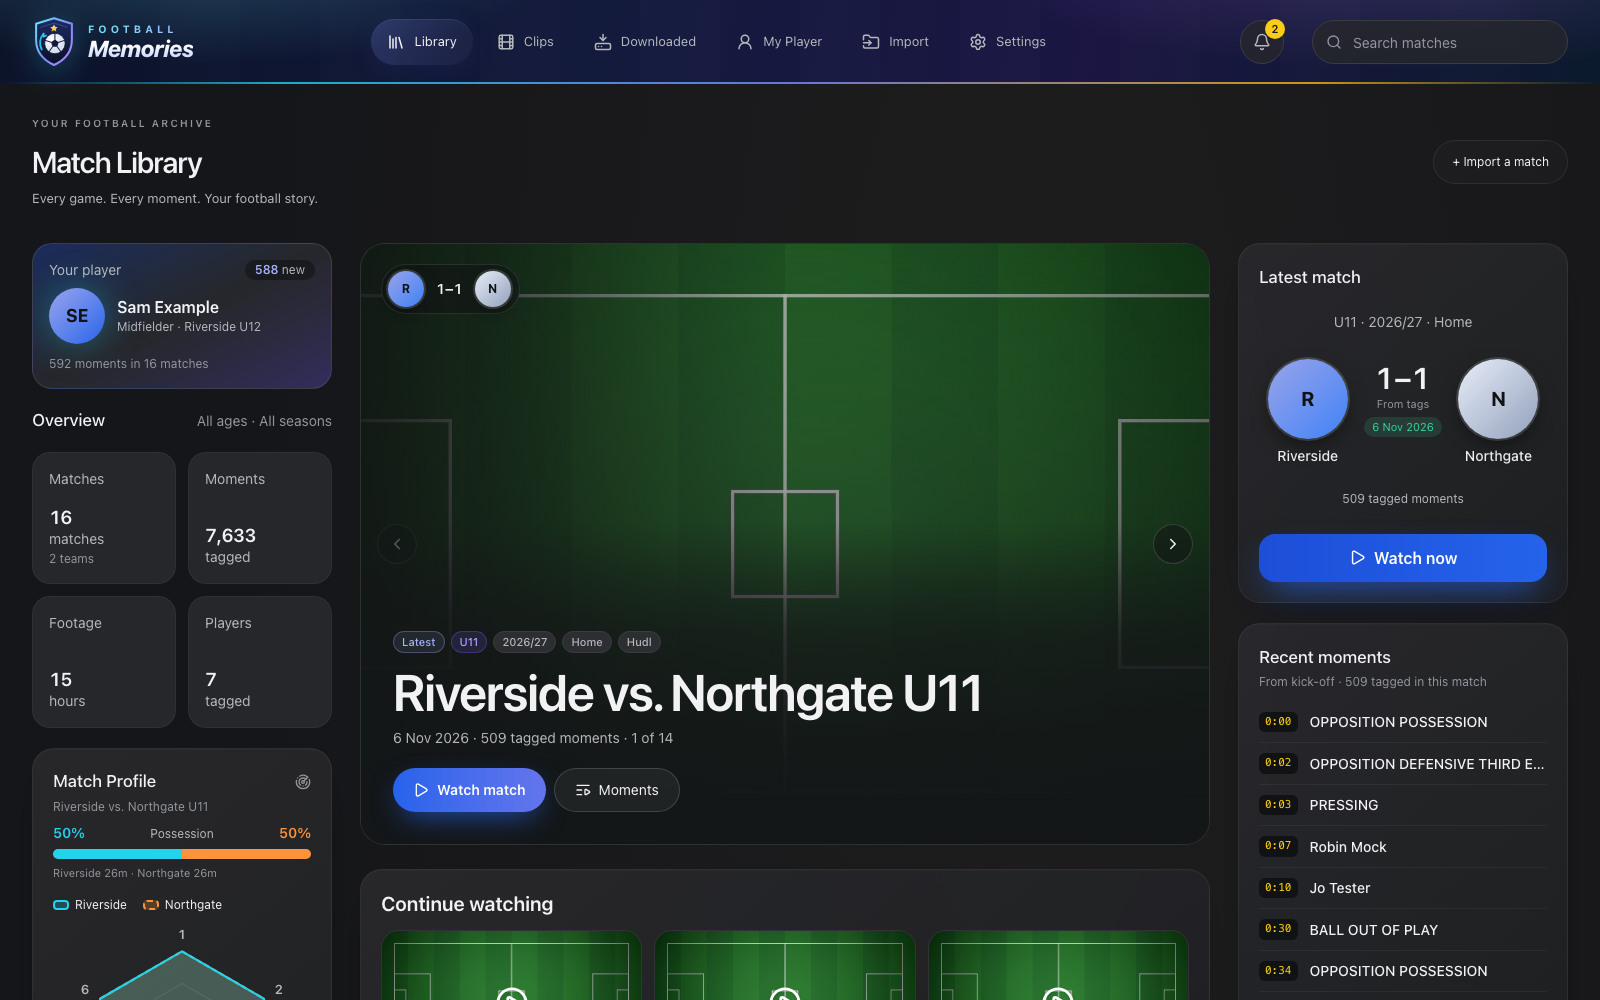
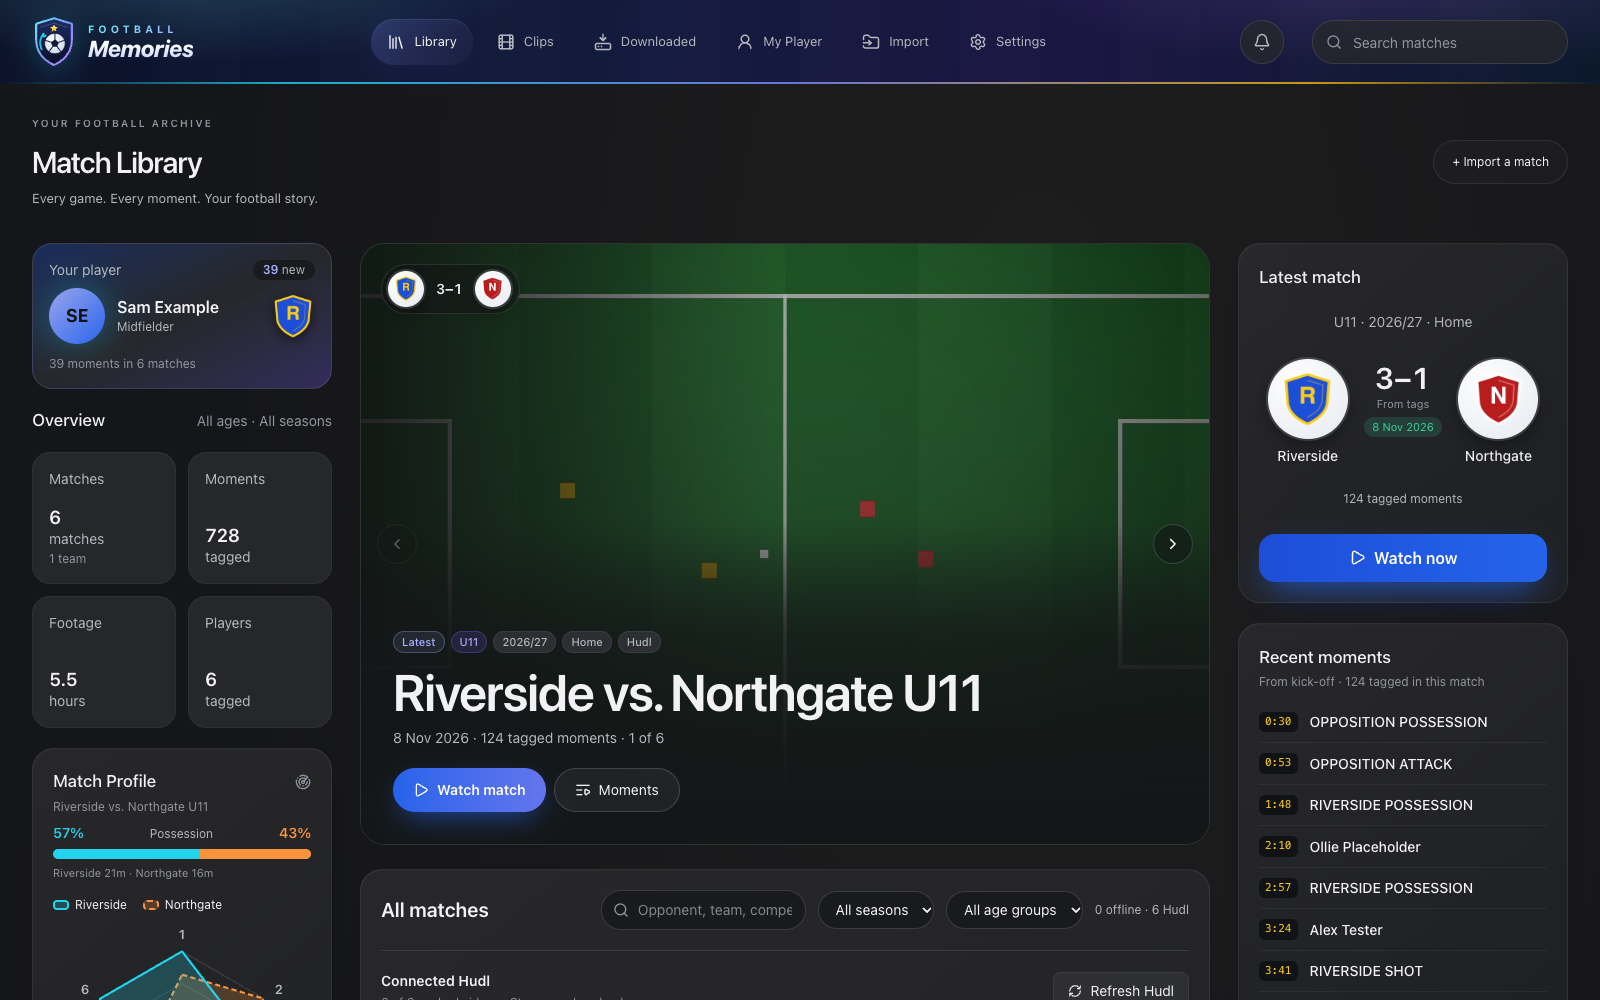
Release 0.4: Veo Disconnect, home-network address, crest on Your player
- Version 0.4.0 (backend, frontend and lock files); CHANGELOG 0.4 summarises
  everything since 0.3; README covers Veo, the drawing board, My Player and
  import, with new screenshots (highlight reel studio, Veo match and team stats,
  Connections, Import) and refreshed Library and Player hub shots. All taken
  from made-up data served by a throwaway stand-in helper and database.
- Veo shows Disconnect whenever an account is saved, not only after Connect.
- Settings > Connections shows the address phones and tablets use on the home
  network: the helper reads this computer's Bonjour name and private IPv4
  locally (GET /network); nothing is sent anywhere.
- The Your player card shows the club crest to the right of the name.
- My Player's four totals show centred, larger numbers.

diff --git a/frontend/src/components/settings/LanAddress.tsx b/frontend/src/components/settings/LanAddress.tsx
@@ -1,0 +1,24 @@
+import { useQuery } from "@tanstack/react-query";
+import { Wifi } from "lucide-react";
+import { hudlRequest } from "../../api/hudl";
+
+type Network = { host: string | null; ip: string | null };
+
+/** Owner request 2026-11-14: the address phones and tablets on the same home network
+ *  use, read by the desktop helper on this computer. */
+export function LanAddress({ port = window.location.port || "8765" }: { port?: string }) {
+  const q = useQuery<Network>({ queryKey: ["lan-address"], queryFn: () => hudlRequest("/network"), retry: false, staleTime: 60_000 });
+  const urls = [q.data?.host, q.data?.ip].filter((x): x is string => Boolean(x)).map((h) => `http://${h}:${port}`);
+  return (
+    <section aria-label="On your home network" className="panel flex flex-wrap items-center gap-x-4 gap-y-2 p-4">
+      <Wifi size={18} className="text-accent" aria-hidden />
+      <h2 className="text-sm font-semibold">On your home network</h2>
+      {q.isPending ? <span className="text-sm text-fg-muted">Finding this computer's address…</span>
+        : urls.length ? <>
+          {urls.map((u) => <code key={u} className="select-all rounded-md bg-ink-900 px-2 py-1 text-sm text-fg">{u}</code>)}
+          <p className="basis-full text-xs text-fg-subtle">Open {urls.length > 1 ? "either address" : "this address"} on a phone, tablet or another computer on the same Wi-Fi. The app has no password on your network.</p>
+        </>
+        : <span className="text-sm text-fg-muted">Start the desktop helper to see this computer's network address.</span>}
+    </section>
+  );
+}

diff --git a/frontend/src/components/settings/LanAddress.test.tsx b/frontend/src/components/settings/LanAddress.test.tsx
@@ -1,0 +1,30 @@
+import { screen, within } from "@testing-library/react";
+import { afterEach, expect, it, vi } from "vitest";
+import { renderWithProviders, stubFetch } from "../../test/render";
+import { LanAddress } from "./LanAddress";
+
+// Owner request 2026-11-14: Connections shows the address to open on a phone or
+// tablet on the same home network, read by the helper on this computer.
+const H = "http://127.0.0.1:8766";
+afterEach(() => vi.unstubAllGlobals());
+
+it("shows the computer's network name and address with the app's port", async () => {
+  stubFetch({ [`${H}/network`]: { host: "MacMini.local", ip: "192.168.0.53" } });
+  renderWithProviders(<LanAddress port="8765" />);
+  const box = await screen.findByRole("region", { name: "On your home network" });
+  expect(await within(box).findByText("http://MacMini.local:8765")).toBeInTheDocument();
+  expect(within(box).getByText("http://192.168.0.53:8765")).toBeInTheDocument();
+});
+
+it("shows only the address when the computer has no network name", async () => {
+  stubFetch({ [`${H}/network`]: { host: null, ip: "10.0.0.7" } });
+  renderWithProviders(<LanAddress port="8765" />);
+  expect(await screen.findByText("http://10.0.0.7:8765")).toBeInTheDocument();
+  expect(screen.queryByText(/\.local/)).toBeNull();
+});
+
+it("says how to find it when the helper cannot tell", async () => {
+  stubFetch({});
+  renderWithProviders(<LanAddress port="8765" />);
+  expect(await screen.findByText(/Start the desktop helper/)).toBeInTheDocument();
+});

diff --git a/frontend/src/components/library/YourPlayerCard.test.tsx b/frontend/src/components/library/YourPlayerCard.test.tsx
@@ -14,3 +14,20 @@ it('shows the whole player name, wrapping onto a second line instead of cutting 
   expect(name.className).not.toContain('truncate');
   expect(name.className).toContain('break-words');
 });
+
+// Owner request 2026-11-14: the club crest sits to the right of the player's name.
+it('shows the club crest to the right of the name', async () => {
+  stubFetch({ '/api/preferences': { primary_player_id: 9 }, '/api/players/9': { ...profile, club_name: 'Riverside FC' }, 'http://127.0.0.1:8766/library': [] });
+  renderWithProviders(<YourPlayerCard />);
+  const crest = await screen.findByRole('img', { name: 'Riverside FC crest' });
+  expect(crest).toHaveAttribute('src', '/api/team-logo?name=Riverside%20FC');
+  const name = screen.getByText('SAMANTHA EXAMPLESON');
+  expect(name.compareDocumentPosition(crest) & Node.DOCUMENT_POSITION_FOLLOWING).toBeTruthy();
+});
+
+it('shows no crest when no club is set', async () => {
+  stubFetch({ '/api/preferences': { primary_player_id: 9 }, '/api/players/9': { ...profile, club_name: null }, 'http://127.0.0.1:8766/library': [] });
+  renderWithProviders(<YourPlayerCard />);
+  await screen.findByText('SAMANTHA EXAMPLESON');
+  expect(screen.queryByRole('img', { name: /crest/ })).toBeNull();
+});

diff --git a/frontend/src/components/settings/VeoAccount.test.tsx b/frontend/src/components/settings/VeoAccount.test.tsx
@@ -58,8 +58,17 @@ it("disconnects a connected account without forgetting it", async () => {
   expect(body("/veo/action")).toEqual({ action: "disconnect" });
 });
 
-it("offers no Disconnect before it is connected", async () => {
-  stubFetch({ [`${BASE}/veo/account`]: { ...idle, configured: true } });
+// Owner request 2026-11-14 (replaces "no Disconnect before it is connected"): the Veo
+// box always has Disconnect once an account is saved, even after the helper restarts.
+it("offers Disconnect whenever a Veo account is saved", async () => {
+  stubFetch({ [`${BASE}/veo/account`]: { ...idle, configured: true }, [`${BASE}/veo/action`]: { accepted: true } });
+  renderWithProviders(<VeoAccount />);
+  await userEvent.setup().click(await screen.findByRole("button", { name: "Disconnect" }));
+  expect(body("/veo/action")).toEqual({ action: "disconnect" });
+});
+
+it("offers no Disconnect with no Veo account saved", async () => {
+  stubFetch({ [`${BASE}/veo/account`]: { ...idle, configured: false } });
   renderWithProviders(<VeoAccount />);
   await screen.findByRole("button", { name: "Connect" });
   expect(screen.queryByRole("button", { name: "Disconnect" })).toBeNull();

diff --git a/frontend/src/components/settings/VeoAccount.tsx b/frontend/src/components/settings/VeoAccount.tsx
@@ -46,7 +46,7 @@ export function VeoAccount({ onConnectionChange }: { onConnectionChange?: (state
         <Button type="submit" variant="primary" disabled={busy}>{save.isPending ? "Saving…" : "Save"}</Button>
         <Button type="button" disabled={busy || !q.data.configured} onClick={() => action.mutate("test")}>Connect</Button>
         <Button type="button" disabled={busy || !q.data.configured} onClick={() => action.mutate("refresh")}><RefreshCw size={14} /> Refresh matches</Button>
-        {["ready", "done"].includes(q.data.state) && <Button type="button" disabled={busy} onClick={() => action.mutate("disconnect")}>Disconnect</Button>}
+        {q.data.configured && <Button type="button" disabled={busy} onClick={() => action.mutate("disconnect")}>Disconnect</Button>}
       </div>
     </form>
     {saved && <p className="text-xs text-ok" role="status">Saved in {where}. Select Connect to sign in.</p>}

diff --git a/frontend/src/pages/ConnectionsPage.tsx b/frontend/src/pages/ConnectionsPage.tsx
@@ -12,6 +12,7 @@ import { Spinner } from "../components/ui/Spinner";
 import { HIDDEN_KEY, readHidden } from "../lib/connections";
 import { HomeTeamField } from "../components/settings/HomeTeamField";
 import { ClubCrestUpload } from "../components/settings/ClubCrestUpload";
+import { LanAddress } from "../components/settings/LanAddress";
 
 const LABELS: Record<string, string> = {
   list_teams: "List teams",
@@ -53,6 +54,7 @@ export function ConnectionsPage({ embedded = false }: { embedded?: boolean }) {
         </EmptyState>
       ) : (
         <div className="space-y-4">
+        <LanAddress />
         <div className="flex flex-wrap gap-2" aria-label="Connections shown">
           <Toggle label="Show Hudl matches" on={shown("hudl")} onChange={(on) => show("hudl", on)} />
           <Toggle label="Show Veo matches" on={shown("veo")} onChange={(on) => show("veo", on)} />

diff --git a/frontend/src/components/library/YourPlayerCard.tsx b/frontend/src/components/library/YourPlayerCard.tsx
@@ -50,6 +50,9 @@ export function YourPlayerCard() {
           <p className="text-base leading-tight font-semibold break-words">{p.display_name}</p>
           <p className="mt-0.5 text-xs text-fg-muted">{[p.position, p.teams[0]?.team_name].filter(Boolean).join(" · ") || "Player hub"}</p>
         </div>
+        {/* Owner request 2026-11-14: the club crest to the right of the name. */}
+        {p.club_name && <img src={`/api/team-logo?name=${encodeURIComponent(p.club_name)}`} alt={`${p.club_name} crest`}
+          className="size-11 shrink-0 object-contain drop-shadow-[0_3px_6px_#0008]" onError={(e) => { e.currentTarget.style.display = "none"; }} />}
       </div>
       <p className="mt-3 text-xs text-fg-subtle">{p.totals.moments + hudlMoments} moments in {p.totals.matches + hudl.length} matches</p>
     </Link>

diff --git a/frontend/src/screens.css b/frontend/src/screens.css
@@ -123,6 +123,9 @@
 .profile-top > .profile-editing { grid-column: 2 / -1; }
 .profile-top:has(> .profile-editing) .profile-stats { grid-column: 1 / -1; grid-template-columns: repeat(4, minmax(0, 1fr)); grid-template-rows: none; }
 .profile-stats .tile { background: #292a2ed9; border-color: #ffffff0b; }
+/* The wider 2 x 2 totals read as headline numbers rather than small text in big boxes. */
+.profile-stats [data-stat-value] { font-size: clamp(28px, 14cqi, 64px); line-height: 1; }
+.profile-stats .tile > div:last-child { margin-block: auto; text-align: center; }
 .profile-details svg polygon[fill="none"] { stroke: #ffffff20; }
 .profile-details svg polygon:not([fill="none"]) { fill: #8998f548; stroke: #a6b1ff; }
 [data-screen="profile"] :focus-visible { outline-color: var(--color-accent); }

diff --git a/backend/tests/connectors/test_lan_address.py b/backend/tests/connectors/test_lan_address.py
@@ -1,0 +1,71 @@
+"""Owner request 2026-11-14: Connections shows the address phones and tablets on the
+home network use. The helper runs on the computer itself, so it can see it."""
+
+import subprocess
+from pathlib import Path
+
+from fastapi.testclient import TestClient
+
+from app.connectors.hudl_companion import create_companion
+from app.connectors.lan_address import lan_address
+
+APP = {"Origin": "http://127.0.0.1:8765"}
+
+
+def fake_run(answers: dict[str, str]):  # noqa: ANN201
+    def run(args: list[str], **_: object) -> subprocess.CompletedProcess[str]:
+        out = answers.get(" ".join(args))
+        return subprocess.CompletedProcess(args, 0 if out else 1, out or "", "")
+
+    return run
+
+
+def test_a_mac_gives_its_bonjour_name_and_wifi_address() -> None:
+    run = fake_run(
+        {"scutil --get LocalHostName": "MacMini\n", "ipconfig getifaddr en0": "192.168.0.53\n"}
+    )
+    assert lan_address("darwin", run=run, probe=lambda: None) == {
+        "host": "MacMini.local",
+        "ip": "192.168.0.53",
+    }
+
+
+def test_a_mac_on_a_cable_uses_the_second_interface() -> None:
+    run = fake_run({"ipconfig getifaddr en1": "10.0.0.7\n"})
+    assert lan_address("darwin", run=run, probe=lambda: None) == {"host": None, "ip": "10.0.0.7"}
+
+
+def test_other_computers_use_the_routing_probe_and_only_private_addresses() -> None:
+    assert lan_address("win32", run=fake_run({}), probe=lambda: "192.168.1.20") == {
+        "host": None,
+        "ip": "192.168.1.20",
+    }
+    assert lan_address("win32", run=fake_run({}), probe=lambda: "8.8.8.8")["ip"] is None
+    assert lan_address("win32", run=fake_run({}), probe=lambda: "127.0.0.1")["ip"] is None
+    assert (
+        lan_address(
+            "darwin", run=fake_run({"ipconfig getifaddr en0": "not an ip"}), probe=lambda: None
+        )["ip"]
+        is None
+    )
+
+
+def test_a_failing_lookup_is_simply_unknown() -> None:
+    def broken(*_: object, **__: object) -> None:
+        raise OSError("no scutil")
+
+    def probe() -> str:
+        raise OSError("no network")
+
+    assert lan_address("darwin", run=broken, probe=probe) == {"host": None, "ip": None}
+
+
+def test_the_helper_answers_the_app_with_the_address(tmp_path: Path) -> None:
+    app = create_companion(tmp_path)
+    app.state.lan_address = lambda: {"host": "MacMini.local", "ip": "192.168.0.53"}
+    with TestClient(app, base_url="http://127.0.0.1:8766") as client:
+        assert client.get("/network", headers=APP).json() == {
+            "host": "MacMini.local",
+            "ip": "192.168.0.53",
+        }
+        assert client.get("/network", headers={"Origin": "https://evil.test"}).status_code == 403

diff --git a/backend/app/connectors/lan_address.py b/backend/app/connectors/lan_address.py
@@ -1,0 +1,66 @@
+"""Owner request 2026-11-14: the address phones and tablets on the home network use
+to open the app. Read on this computer only (the helper is not in Docker); nothing is
+sent anywhere. The routing probe opens a UDP socket without sending a packet."""
+
+from __future__ import annotations
+
+import ipaddress
+import socket
+import subprocess
+import sys
+from collections.abc import Callable
+from typing import Any
+
+Run = Callable[..., Any]
+
+
+def _private(text: object) -> str | None:
+    try:
+        address = ipaddress.ip_address(str(text).strip())
+    except ValueError:
+        return None
+    if (
+        address.version != 4
+        or not address.is_private
+        or address.is_loopback
+        or address.is_link_local
+    ):
+        return None
+    return str(address)
+
+
+def _route_probe() -> str | None:
+    """The local address the computer would use to reach another network. UDP
+    connect sets the route only; no packet leaves the computer."""
+    with socket.socket(socket.AF_INET, socket.SOCK_DGRAM) as probe:
+        probe.connect(("10.254.254.254", 1))
+        return str(probe.getsockname()[0])
+
+
+def _ask(run: Run, args: list[str]) -> str | None:
+    try:
+        done = run(args, capture_output=True, text=True, timeout=3, check=False)
+    except (OSError, subprocess.SubprocessError):
+        return None
+    return str(done.stdout).strip() or None if done.returncode == 0 else None
+
+
+def lan_address(
+    platform: str = sys.platform,
+    run: Run = subprocess.run,
+    probe: Callable[[], str | None] = _route_probe,
+) -> dict[str, str | None]:
+    host, ip = None, None
+    if platform == "darwin":
+        name = _ask(run, ["scutil", "--get", "LocalHostName"])
+        host = f"{name}.local" if name and name.replace("-", "").isalnum() else None
+        for interface in ("en0", "en1"):
+            ip = _private(_ask(run, ["ipconfig", "getifaddr", interface]))
+            if ip:
+                break
+    if ip is None:
+        try:
+            ip = _private(probe())
+        except OSError:
+            ip = None
+    return {"host": host, "ip": ip}

diff --git a/backend/app/connectors/hudl_companion.py b/backend/app/connectors/hudl_companion.py
@@ -31,6 +31,7 @@ from app.connectors.hudl_metadata import (
     capture_key,
     season_label,
 )
+from app.connectors.lan_address import lan_address
 
 ORIGINS = {
     "http://127.0.0.1:8765",
@@ -284,6 +285,7 @@ def create_companion(output: Path) -> FastAPI:
         return JSONResponse({"detail": str(error)}, status_code=400)
 
     app.include_router(veo_router)
+    app.state.lan_address = lan_address
 
     @app.get("/account")
     def account_status(request: Request) -> dict[str, object]:
@@ -644,6 +646,11 @@ def create_companion(output: Path) -> FastAPI:
         return Response(
             content=content, media_type=media_type, headers={"Cache-Control": "no-store"}
         )
+
+    @app.get("/network")
+    def network(request: Request) -> dict[str, str | None]:
+        """Owner request 2026-11-14: this computer's home-network address, for phones."""
+        return dict(request.app.state.lan_address())
 
     @app.get("/status")
     def status(request: Request) -> dict[str, str | None]:

diff --git a/README.md b/README.md
@@ -3,10 +3,10 @@
 A private, local-first archive of a young player's football: every match,
 every tagged moment and every highlight, kept safely on your own computer.
 
-Connect your Hudl account (with your own permission to automate and download),
-stream matches at the best available quality, jump straight to tagged moments,
-download the ones that matter and turn them into shareable highlight reels with
-animated title cards. Nothing is uploaded anywhere.
+Connect your Hudl and Veo accounts (with your own permission to automate and
+download), stream matches at the best available quality, jump straight to tagged
+moments and highlights, download the ones that matter and turn them into
+shareable highlight reels with animated title cards. Nothing is uploaded anywhere.
 
 ![Match Library](docs/screenshots/library.png)
 
@@ -16,13 +16,19 @@ animated title cards. Nothing is uploaded anywhere.
   scores, a Match Profile and possession for the match on show. **Continue
   watching** picks up where you stopped; icons show what you have downloaded.
 - **Match page**: watch the whole game or only the tagged moments, filter by
-  moment type or player, and play tagged moments back to back. **Match
-  insights** show possession, a minute-by-minute momentum chart (click a bar to
-  watch it) and your record against the opponent. **Attacks ending in a chance**
-  turns each attack into one clip. Add a **note or arrows** to any moment.
-- **My Player**: a player card in seven finishes, a memories timeline, and what
-  your player was on the pitch during, his football journey season by season,
-  and who he plays alongside most.
+  moment type or player, play tagged moments back to back and step through them
+  with N and B. **Match insights** show possession, a minute-by-minute momentum
+  chart (click a bar to watch it) and your record against the opponent.
+  **Attacks ending in a chance** turns each attack into one clip. A **drawing
+  board** puts arrows, runs, zones and player markers over any frame, saved and
+  replayed with the video.
+- **Veo matches**: your Veo recordings beside your Hudl ones, with their
+  highlights and posters. Watch them on any device at home, tick highlights to
+  play, download or make into a reel, and see **team stats** from Veo's own
+  event detection (goals, attempts, corners, fouls and more, for each side).
+- **My Player**: a player card in seven finishes, records and streaks, a season
+  story, milestones, the top 5 moments, an opponent map, a memories timeline,
+  what your player was on the pitch during and who he plays alongside most.
 - **Opponents**: your record against every club for one team, followed as it
   moves up an age group each season, split by season with every game.
 - **Reports**: a match or season report with club crests, saved as an image or
@@ -31,12 +37,20 @@ animated title cards. Nothing is uploaded anywhere.
   separate clips, one video, or straight into a highlight reel. **Batch download**
   does the same across many matches in one go.
 - **Highlight reels**: six animated card styles, each match with its own opening
-  card filled in automatically with both crests, the opponent and the date.
+  card filled in automatically with both crests, the opponent and the date, from
+  Hudl or Veo matches.
+- **Import**: drop a match video on the Import page (or choose it from a folder)
+  and add the details; the original file is copied and verified.
 - **Downloaded**: every full match, moment set and reel on this computer, with
   Play, Save and Delete, and an optional folder for Plex and other media players.
 - **Alerts**: a bell for new matches and new moments of your player.
-- **Phones and tablets**: open the app from any device on your home Wi-Fi.
+- **Phones and tablets**: open the app from any device on your home Wi-Fi;
+  Settings > Connections shows the address to use.
 - **Updates**: Settings > Update checks GitHub and updates in one click.
+
+| Highlight reel studio | Veo match and team stats |
+|---|---|
+| ![Highlight reel studio](docs/screenshots/reel.png) | ![Veo match page](docs/screenshots/veo-match.png) |
 
 | Match page | Match insights |
 |---|---|
@@ -45,6 +59,10 @@ animated title cards. Nothing is uploaded anywhere.
 | Player hub | On the pitch during, journey and partnerships |
 |---|---|
 | ![Player hub](docs/screenshots/player.png) | ![Player insights](docs/screenshots/player-insights.png) |
+
+| Connections (Hudl, Veo, home network) | Import a match |
+|---|---|
+| ![Connections](docs/screenshots/connections.png) | ![Import](docs/screenshots/import.png) |
 
 | Opponents | Clips |
 |---|---|
@@ -117,6 +135,14 @@ Windows it is the minimised "Football Memories Hudl helper" window) while you us
 
 Hudl's terms forbid automated access without permission. Use this only for an
 account and footage you have permission to automate and download.
+
+### Connecting Veo
+
+In the same place, enter your Veo email and password, press **Save**, then
+**Connect** and **Refresh matches**. The password is kept the same way as
+Hudl's. The app only reads your Veo match list, highlights and videos; it never
+changes anything on Veo. **Disconnect** forgets the open session; your account
+stays saved.
 
 ## Good to know
 
